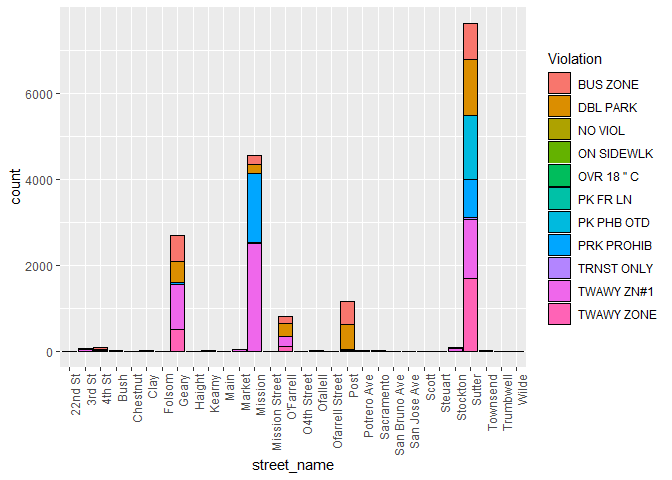
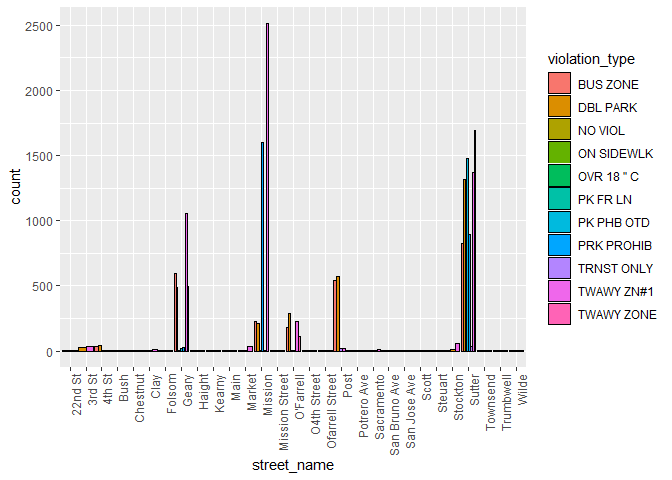
More experimentation with visualizations

diff --git a/muni_transitLanes/muni_transitLanes.md b/muni_transitLanes/muni_transitLanes.md
@@ -147,7 +147,8 @@ Clean up street names
 # empty string
 
 # Vector of street types for use with str_replace_all function
-street_types <- c("ST$" = "", "BLVD$" = "", "TUNL$" = "", "Street" = "", "Ave" = "")
+street_types <- c("ST$" = "", "BLVD$" = "", "TUNL$" = "", "Street" = "", "Ave" = "",
+                  "Street$" = "")
 
 # implement function with magarittr
 library(magrittr)
@@ -189,8 +190,8 @@ Clean up minor spelling mistakes
 # Remove for the rest to keep it more clean
 # We will determine the exact geographical location with longitude and latitude
 # coordinates
-muni$street_name[muni$street_name %in% c("Ofarrell", "ofallell")] <- "O'Farrell"
-muni$street_name[muni$street_name %in% c("4Th", "04Th", "04th")] <- "4th St"
+muni$street_name[muni$street_name %in% c("Ofarrell", "Ofallell")] <- "O'Farrell"
+muni$street_name[muni$street_name %in% c("4Th", "04Th", "O4th")] <- "4th St"
 muni$street_name[muni$street_name %in% c("3Rd", "03Rd")] <- "3rd St"
 muni$street_name[muni$street_name %in% c("22Nd")] <- "22nd St"
 muni$street_name[muni$street_name %in% c("Po")] <- "Post"
@@ -204,12 +205,12 @@ unique(muni$street_name)
     ##  [4] "Post"            "3rd St"          "Sutter"         
     ##  [7] "Sacramento"      "Main"            "Clay"           
     ## [10] "Stockton"        "4th St"          "Market"         
-    ## [13] "Ofarrell Street" "Ofallell"        "O4th Street"    
-    ## [16] "Potrero Ave"     "Mission Street"  "San Bruno Ave"  
-    ## [19] "22nd St"         "Haight"          "Townsend"       
-    ## [22] "San Jose Ave"    "Steuart"         "Scott"          
-    ## [25] "Chestnut"        "Kearny"          "Folsom"         
-    ## [28] "Bush"            "Trumbwell"       "Wilde"
+    ## [13] "Ofarrell Street" "O4th Street"     "Potrero Ave"    
+    ## [16] "Mission Street"  "San Bruno Ave"   "22nd St"        
+    ## [19] "Haight"          "Townsend"        "San Jose Ave"   
+    ## [22] "Steuart"         "Scott"           "Chestnut"       
+    ## [25] "Kearny"          "Folsom"          "Bush"           
+    ## [28] "Trumbwell"       "Wilde"
 
 Work on this
 
@@ -218,55 +219,6 @@ library(ggplot2)
 ```
 
     ## Warning: package 'ggplot2' was built under R version 3.4.4
-
-``` r
-# Group together factor level with low counts
-
-# Visualize number of violations by street name with barplot
-streetBarPlot <- ggplot(data=muni, aes(x=street_name)) + 
-  geom_bar(aes(fill=Violation), color='black') +
-  theme(axis.text.x = element_text(angle = 90, hjust = 1))
-
-streetBarPlot
-```
-
-![](muni_transitLanes_files/figure-markdown_github/unnamed-chunk-8-1.png)
-
-``` r
-# Visualize number of violations by street name with barplot
-violations <- ggplot(data=muni, aes(x=Violation)) + 
-  geom_bar() +
-  theme(axis.text.x = element_text(angle = 90, hjust = 1))
-
-violations
-```
-
-![](muni_transitLanes_files/figure-markdown_github/unnamed-chunk-8-2.png)
-
-``` r
-# Visualize number of violations with pie chart
-pie <- ggplot(muni, aes(x = "", fill = factor(Violation))) + 
-  geom_bar(width = 1) +
-  theme(axis.line = element_blank(), 
-        plot.title = element_text(hjust=0.5)) + 
-  labs(fill="class", 
-       x=NULL, 
-       y=NULL, 
-       title="Pie Chart of Violation Type", 
-       caption="Source: muni")
-  
-pie + coord_polar(theta = "y", start=0)
-```
-
-![](muni_transitLanes_files/figure-markdown_github/unnamed-chunk-8-3.png)
-
-``` r
-violations
-```
-
-![](muni_transitLanes_files/figure-markdown_github/unnamed-chunk-8-4.png)
-
-Time Series visualization test Account for dates with no citation Make dates with sequence function between earliest date and latest date \# try missing\_values &lt;- date\[!date in% sequence\]
 
 ``` r
 library(dplyr)
@@ -286,6 +238,112 @@ library(dplyr)
     ##     intersect, setdiff, setequal, union
 
 ``` r
+# Convert citation date to date object to work in dplyr
+muni$citation_date <- as.Date(muni$citation_date, format ='%m/%d/%Y')
+muni$citation_dateTime <- as.Date(muni$citation_dateTime, format ='%m/%d/%Y  %H:%M') 
+
+# Rename violations
+muni <- muni %>% 
+  rename(violation_type = Violation)
+
+# Group together factor level with low counts
+
+# Visualize number of violations by street name with barplot
+streetBarPlot <- ggplot(data=muni, aes(x=street_name)) + 
+  geom_bar(aes(fill=violation_type), color='black', position = "dodge") +
+  theme(axis.text.x = element_text(angle = 90, hjust = 1))
+
+streetBarPlot
+```
+
+![](muni_transitLanes_files/figure-markdown_github/unnamed-chunk-8-1.png)
+
+We find that most transit lane violations are concentrated on a few streets: Geary, Market, Mission, Folsom, Stockton, and Sutter. Almost all of these pass through downtown San Francisco, which is plausible since many bus services aggregate in downtown.
+
+Many questions can be asked from this visualization. Is the high number of citations of these streets because of high bus and therefore high transit lane density in downtown San Francisco?
+
+Are drivers more likely to violate regulations in the downtown area because of how crowded and hectic streets can get during peak hours, which makes driver more short-tempered and willing to make shortcuts through transit lanes?
+
+Or, are high incidence of transit lane violations on a few streets because muni drivers are more short-tempered and willing to report violations in crowded downton SF?
+
+Also, we have to take into account when each transit lane was implemented.
+
+Visualize number of violations with barplot
+===========================================
+
+``` r
+# Visualize number of violations by street name with barplot
+violations <- ggplot(data=muni, aes(x=violation_type)) + 
+  geom_bar() +
+  theme_minimal() +
+  theme(axis.text.x = element_text(angle = 90, hjust = 1))
+
+violations
+```
+
+![](muni_transitLanes_files/figure-markdown_github/unnamed-chunk-9-1.png) Most violation types are towaway zone and towaway zone \#1. There are few on sidewalk and OVR 18\*C violations. As there are few no violations. Need more information on how specific violation types are defined.
+
+Violations - Count Plot
+
+``` r
+violationsCountPlot <- ggplot(data=muni)+ 
+  geom_count(mapping = aes(x = violation_type, y = street_name)) +
+  theme(axis.text.x = element_text(angle = 90, hjust = 1))
+
+
+violationsCountPlot
+```
+
+![](muni_transitLanes_files/figure-markdown_github/unnamed-chunk-10-1.png)
+
+Violations by Street Name - Tile Plot (possibly do a heat map with d3heatmap or heatmaply)
+
+``` r
+muni %>% 
+  count(violation_type, street_name) %>% 
+  ggplot(mapping = aes(x = violation_type, y = street_name)) +
+    geom_tile(mapping = aes(fill = n)) +   
+    theme(axis.text.x = element_text(angle = 90, hjust = 1))
+```
+
+![](muni_transitLanes_files/figure-markdown_github/unnamed-chunk-11-1.png)
+
+Violations by Street Name - Jitter plot
+
+``` r
+violations_jitter <- ggplot(data = muni) +
+  geom_jitter(mapping = aes(x = violation_type, y = street_name)) +
+  theme(axis.text.x = element_text(angle = 90, hjust = 1))
+
+violations_jitter
+```
+
+![](muni_transitLanes_files/figure-markdown_github/unnamed-chunk-12-1.png)
+
+Violations - Pie Chart
+
+``` r
+# Visualize number of violations with pie chart
+pie <- ggplot(muni, aes(x = "", fill = factor(violation_type))) + 
+  geom_bar(width = 1) +
+  theme(axis.line = element_blank(), 
+        plot.title = element_text(hjust=0.5)) + 
+  labs(fill="class", 
+       x=NULL, 
+       y=NULL, 
+       title="Pie Chart of Violation Type", 
+       caption="Source: muni")
+  
+pie + coord_polar(theta = "y", start=0)
+```
+
+![](muni_transitLanes_files/figure-markdown_github/unnamed-chunk-13-1.png)
+
+Time Series visualization test Account for dates with no citation Make dates with sequence function between earliest date and latest date \# try missing\_values &lt;- date\[!date in% sequence\]
+
+``` r
+library(dplyr)
+
 # Create new column which stores how many citations were issued that day and build 
 # time series object from that column
 
@@ -321,4 +379,4 @@ citation_ts <- ts(citation_count, frequency = 7, start= c(2008,2))
 plot.ts(citation_ts)
 ```
 
-![](muni_transitLanes_files/figure-markdown_github/unnamed-chunk-9-1.png)
+![](muni_transitLanes_files/figure-markdown_github/unnamed-chunk-14-1.png)
